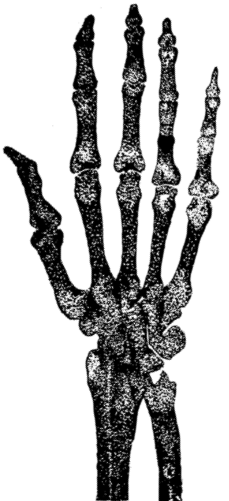
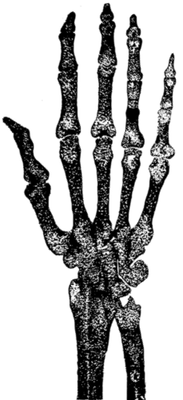
changing skeleton hand dimensions and media rules

diff --git a/about-me.css b/about-me.css
@@ -114,7 +114,11 @@ a:hover {
       padding-top: 300px;
     }
   }
-
+@media only screen and (max-width: 414px) {
+  .skeleton-hand {
+    width: 50%;
+  }
+}
   /* Body */
   .middle-container {
     background-color: black;
@@ -198,8 +202,8 @@ a:hover {
 
   /* Images */
   .skeleton-hand {
-    position: relative;
-    width: 175px;
+    position: absolute;
+    bottom: 0;
   }
 
   .me {
